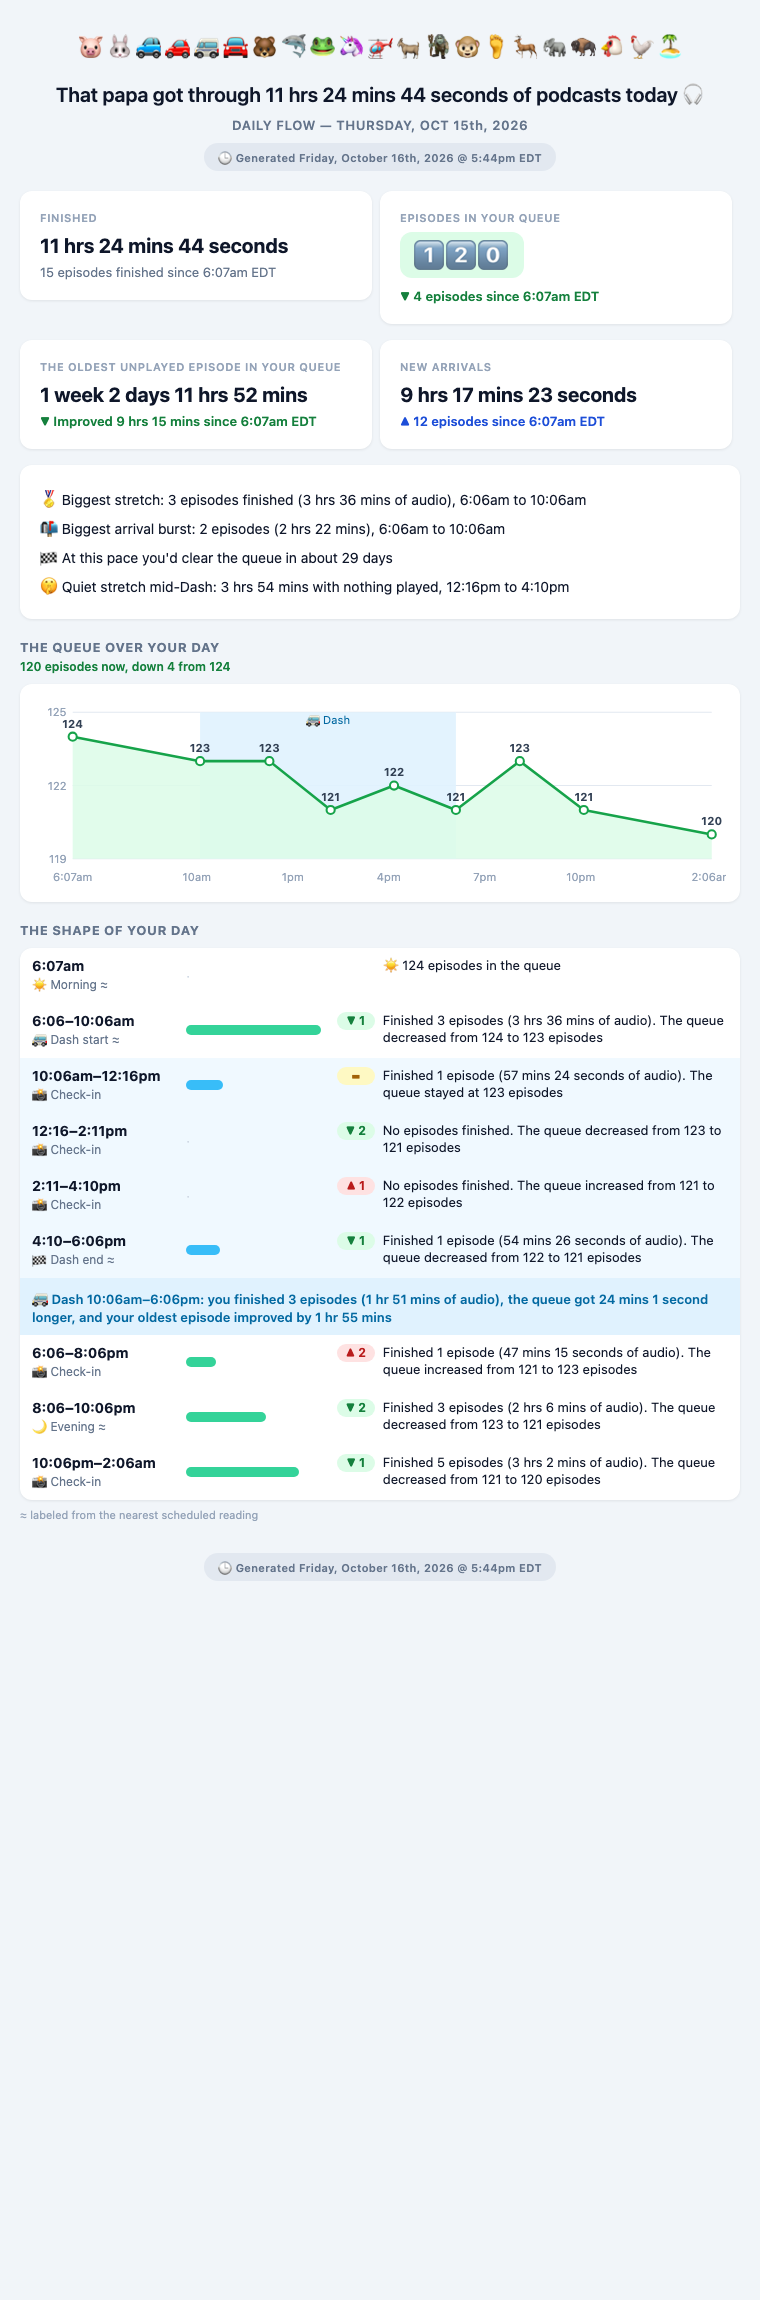
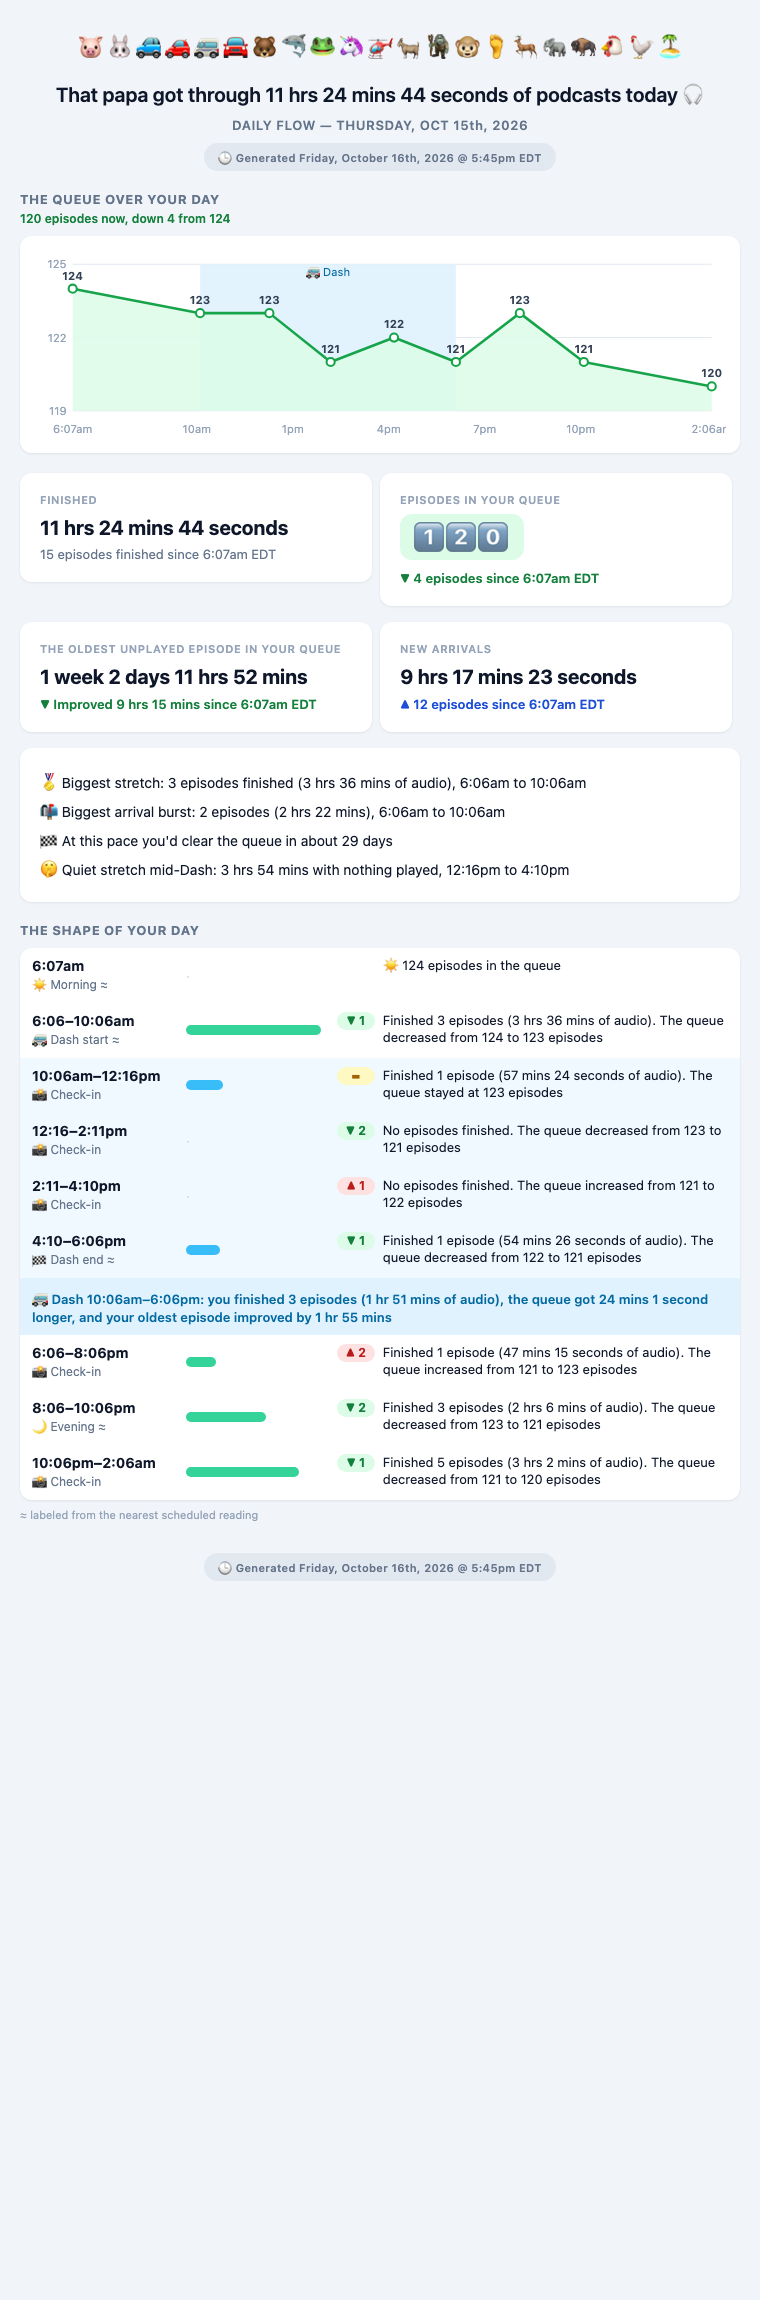
Flow web report: the queue chart opens the report

Changed region(s): [[0.0303, 0.2161, 0.9382, 0.4013], [0.0303, 0.0926, 0.9382, 0.1852]]

diff --git a/flow.py b/flow.py
@@ -1350,7 +1350,8 @@ def render_day_html(s, tz=None, generated=None, d=None):
                                      since_label(qs, tz))),
     ]
     rows = "".join(f"<tr>{cards[i]}{cards[i + 1]}</tr>" for i in range(0, len(cards), 2))
-    parts = [f'<table width="100%" cellpadding="0" cellspacing="0" style="margin-top:20px;">{rows}</table>']
+    parts = [queue_chart_svg(s, tz).replace("margin:8px 0 4px;", "margin:20px 0 4px;", 1),
+             f'<table width="100%" cellpadding="0" cellspacing="0" style="margin-top:0;">{rows}</table>']
     hl = highlights(s, tz)
     if hl:
         items = "".join(f'<div style="margin:6px 0;font-size:14px;">{icon} {html.escape(line)}</div>' for icon, line in hl)
@@ -1359,7 +1360,6 @@ def render_day_html(s, tz=None, generated=None, d=None):
     if d and d.get("now_playing"):
         np = d["now_playing"]
         nxt = rr._next_up_episode(d) if d["queue"].get("episodes") else None
-    parts.append(queue_chart_svg(s, tz))
     parts.append(now_playing_card_html(np, nxt))
     started = in_progress_episodes(d) if d else ((s.get("in_progress_snapshot") or {}).get("in_progress") or [])
     parts.append(in_progress_html(started))

diff --git a/tests/test_flow.py b/tests/test_flow.py
@@ -736,6 +736,11 @@ class ChartAndProgressTests(unittest.TestCase):
         for hour in ("6am", "6pm"):
             self.assertIn(f">{hour}<", svg)
 
+    def test_the_queue_chart_is_the_first_thing_on_the_page(self):
+        page = flow.render_day_html(self.s, NY)
+        self.assertLess(page.index("The queue over your day"), page.index("Finished"))
+        self.assertLess(page.index("The queue over your day"), page.index("Episodes in your queue"))
+
     def test_chart_needs_two_readings_and_tolerates_a_crowd(self):
         self.assertEqual(flow.queue_chart_svg(flow.summarize_day(self.history[:1], datetime.date(2026, 10, 16), NY), NY), "")
         crowd = [snap("2026-10-16T06:00", "morning", 124)] + [
